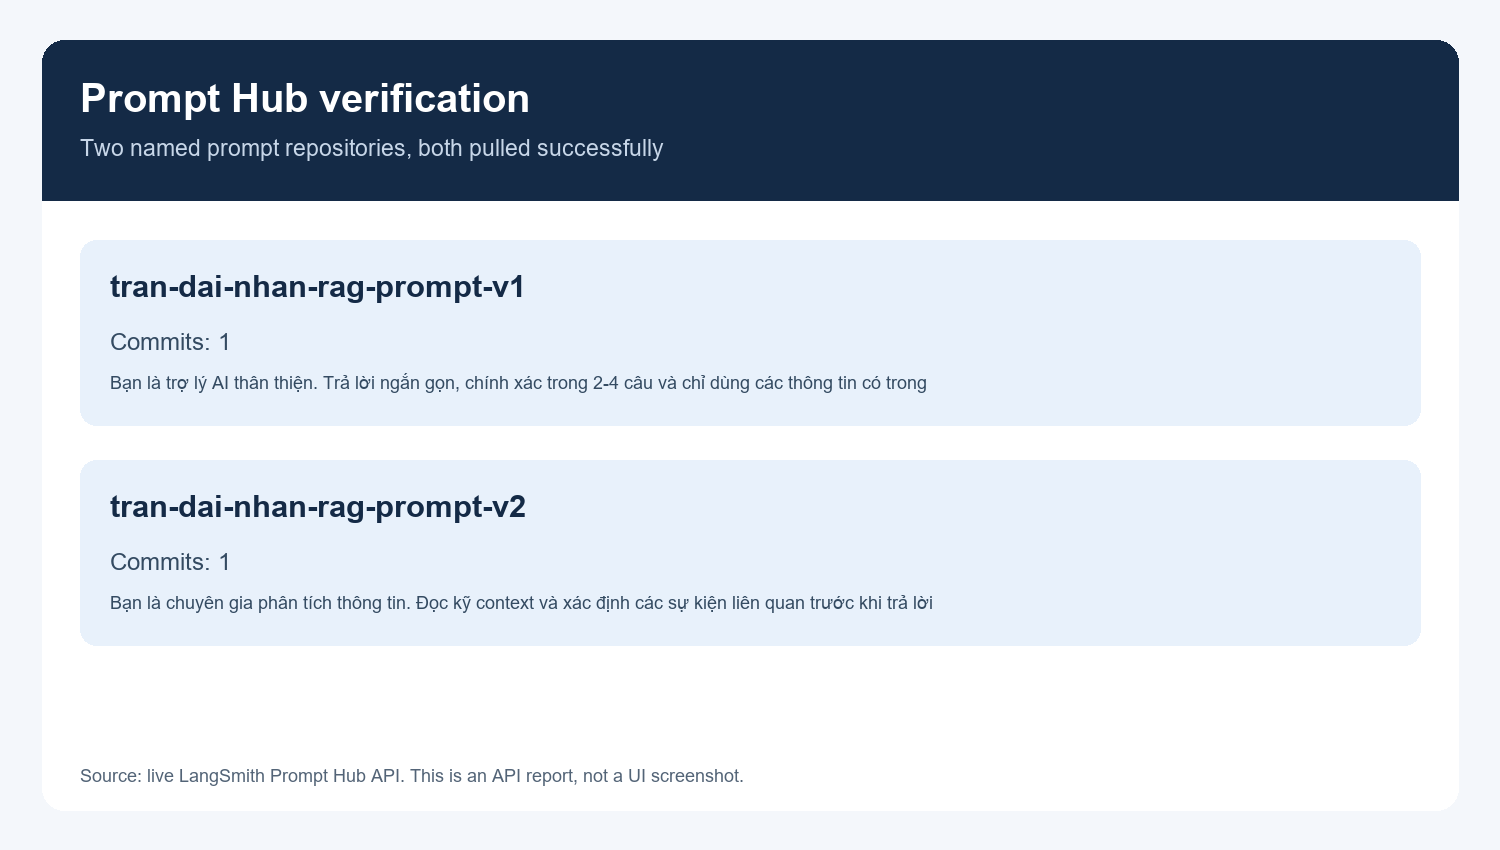
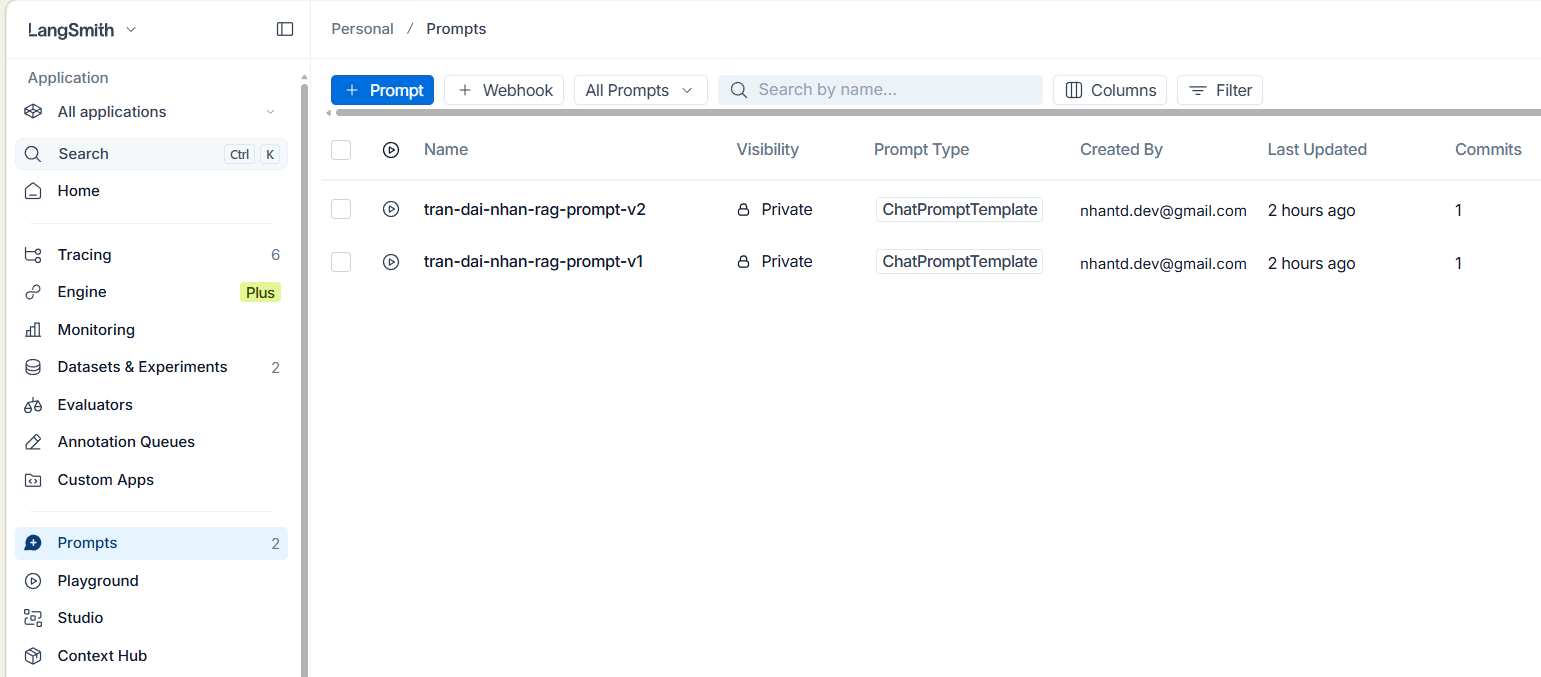
Capture Prompt Hub in Edge and finalize evidence

diff --git a/evidence/README.md b/evidence/README.md
@@ -2,7 +2,7 @@
 
 LangSmith project: [day22-lab](https://smith.langchain.com/o/c184d0e3-d29d-4c6c-832d-c1ca4b2ce5bd/projects/p/f4ac32ab-1725-4707-82f6-3af9ea710422). The LangSmith API confirmed 50 successful root `rag-query` traces and 50 successful root `ab-rag-query` traces. A sample `rag-query` trace contains the input question, retriever output, prompt, model run, and answer. Prompt Hub contains `tran-dai-nhan-rag-prompt-v1` and `tran-dai-nhan-rag-prompt-v2`; both were pulled successfully for A/B routing. The 409 messages in the routing log mean the prompt content was already on Hub, so there was no new commit to create.
 
-`01_langsmith_traces.png` is a capture of the `day22-lab` tracing page in Edge. `03_ragas_scores.png` is a real terminal capture displaying the values from `data/ragas_report.json`, which was saved by the completed evaluation run. `02_prompt_hub.png` is currently a visual report made from actual LangSmith API responses, **not a screenshot of the LangSmith website**. It should be replaced with a UI capture before grading if the course requires screenshots. The original score JSON and console logs remain unedited evidence of the executions.
+`01_langsmith_traces.png` and `02_prompt_hub.png` are captures of the `day22-lab` tracing page and Prompt Hub listing in Edge Profile 1. The Prompt Hub screenshot shows both named prompts. `03_ragas_scores.png` is a terminal capture displaying the values from `data/ragas_report.json`, which was saved by the completed evaluation run. The original score JSON and console logs remain unedited evidence of the executions.
 
 | Metric | V1 | V2 |
 |---|---:|---:|
